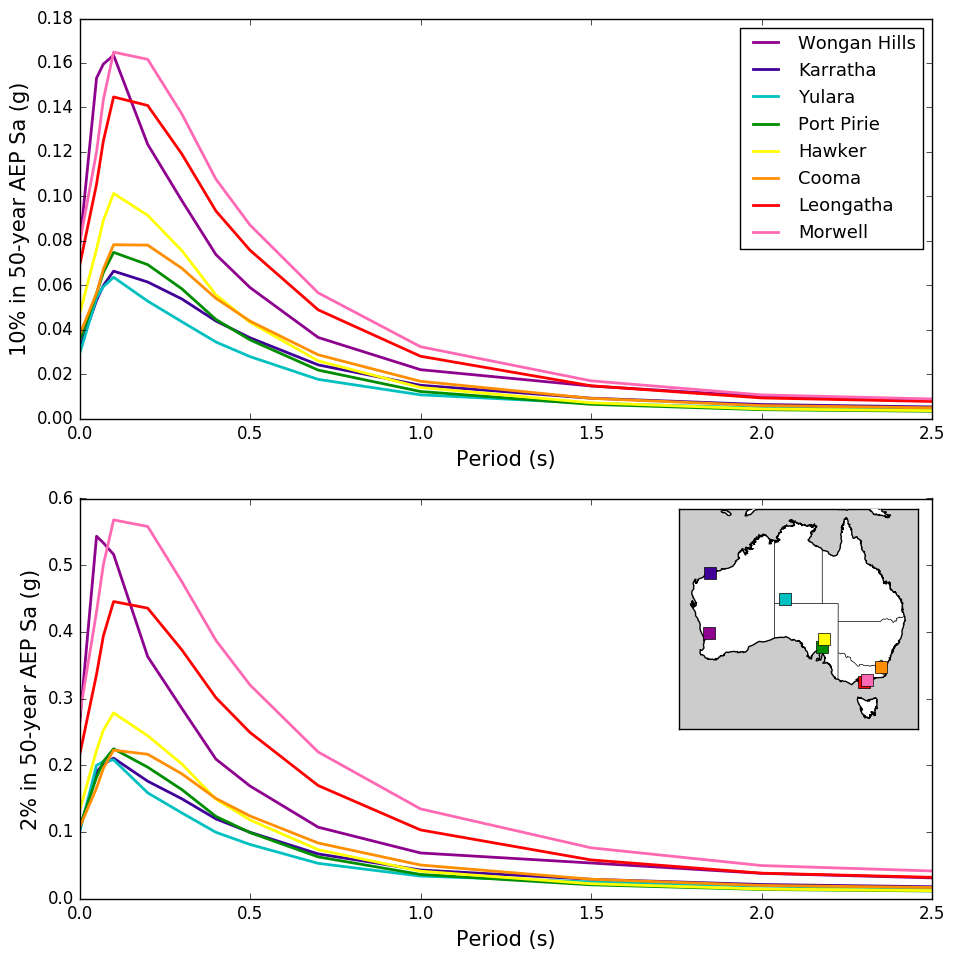
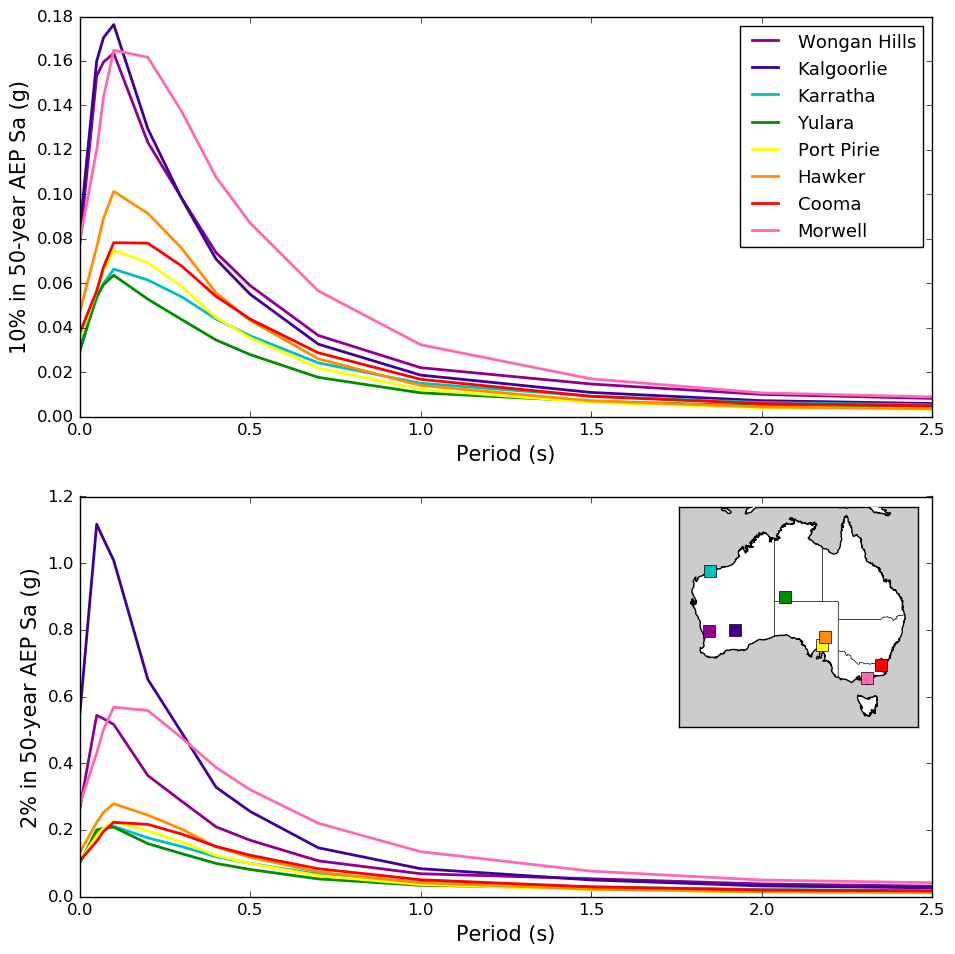
updating codes

diff --git a/nsha18/final_overview/hazard_spectra/plt_uhs_curves.py b/nsha18/final_overview/hazard_spectra/plt_uhs_curves.py
@@ -148,7 +148,7 @@ fig = plt.figure(1, figsize=(11, 11))
 if altPlaces == False:
     places = ['Perth', 'Darwin', 'Adelaide', 'Melbourne', 'Hobart', 'Canberra', 'Sydney', 'Brisbane']
 else:
-    places = ['Wongan Hills', 'Karratha', 'Yulara', 'Port Pirie', 'Hawker', 'Cooma', 'Leongatha', 'Morwell']
+    places = ['Wongan Hills', 'Kalgoorlie', 'Karratha', 'Yulara', 'Port Pirie', 'Hawker', 'Cooma', 'Morwell']
     #places = ['Wongan Hills', 'Darwin', 'Adelaide', 'Kimba', 'Hawker', 'Canberra', 'Sydney', 'Morwell']
 
 if plt1170 == False:
